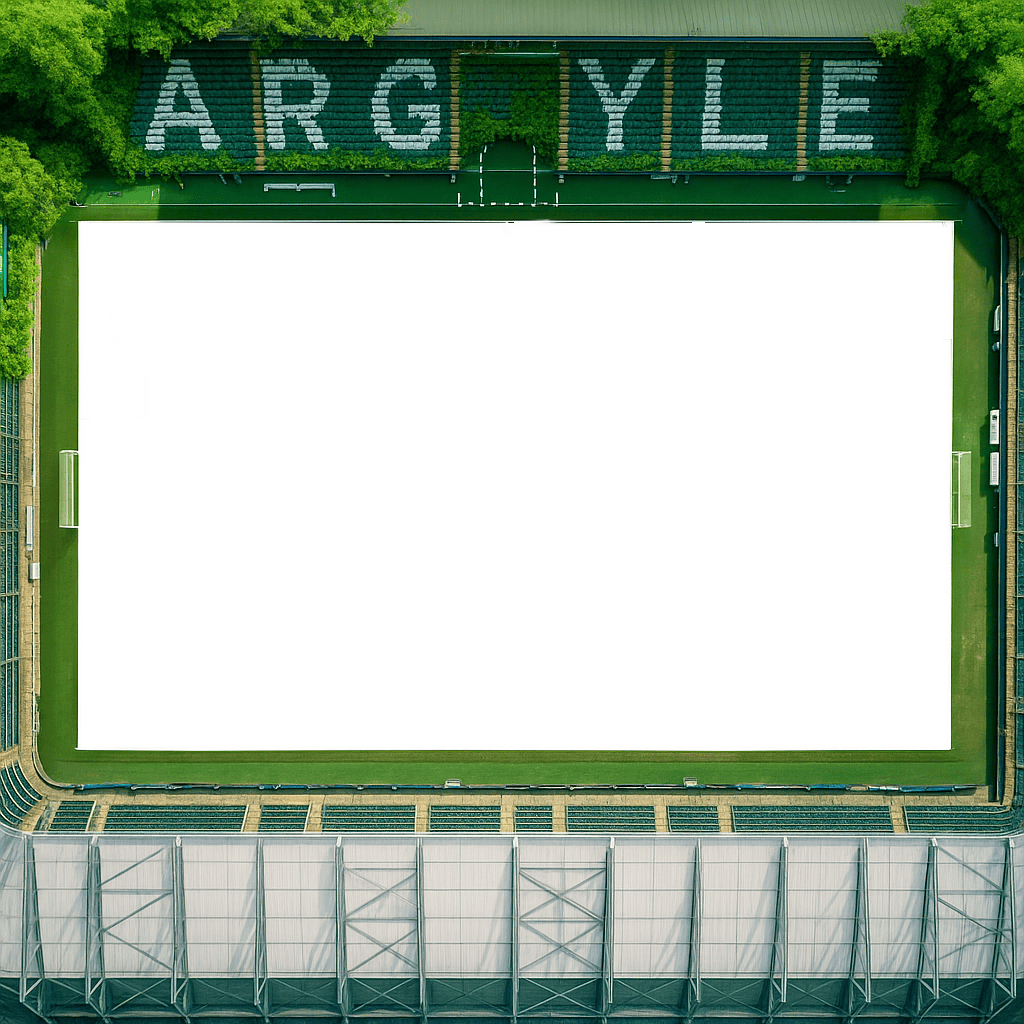
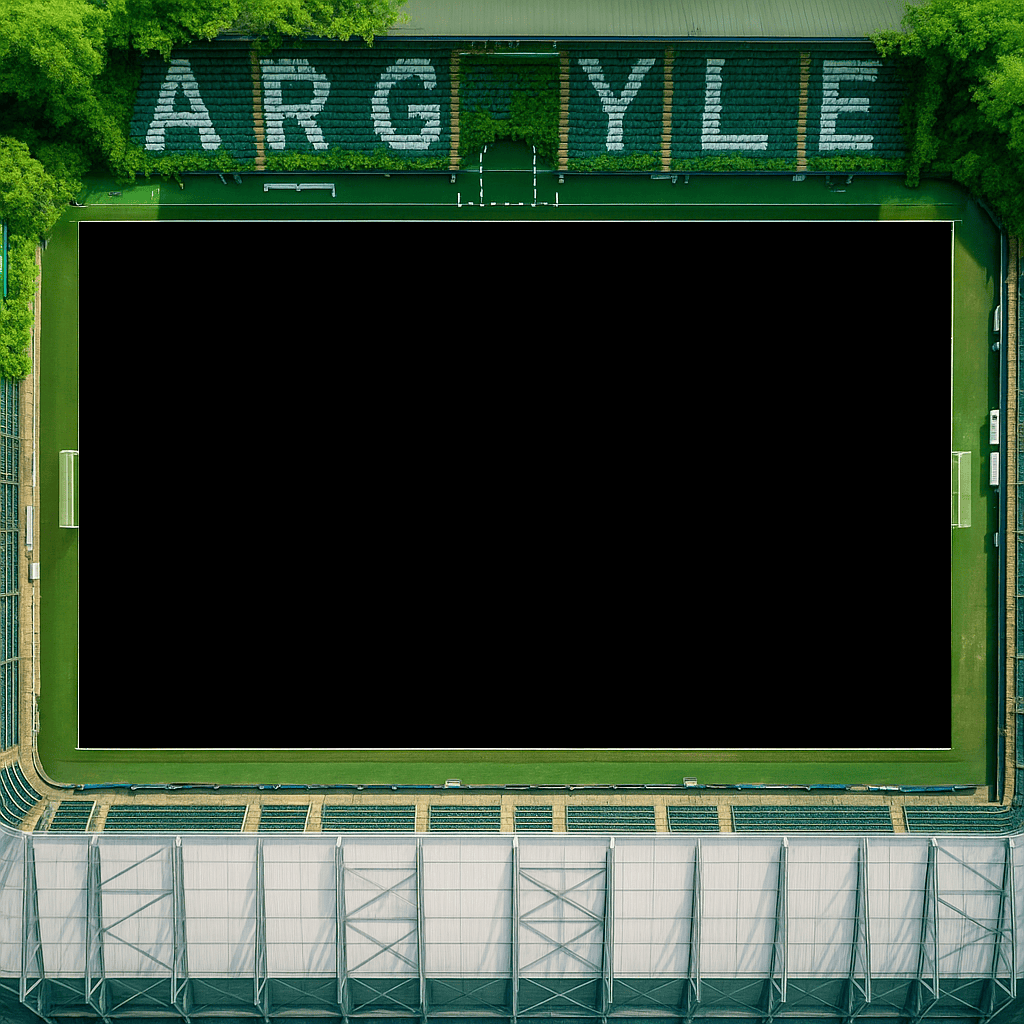
cddvb

diff --git a/themes.js b/themes.js
@@ -775,7 +775,7 @@ const themePresets = {
     "rotation": 271
   }
         ],
-        bg: "images/default2.png"
+        bg: "images/default20.png"
       }
     }
   },
